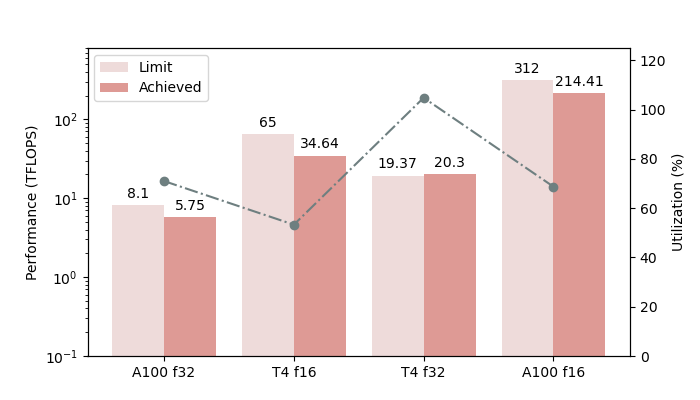
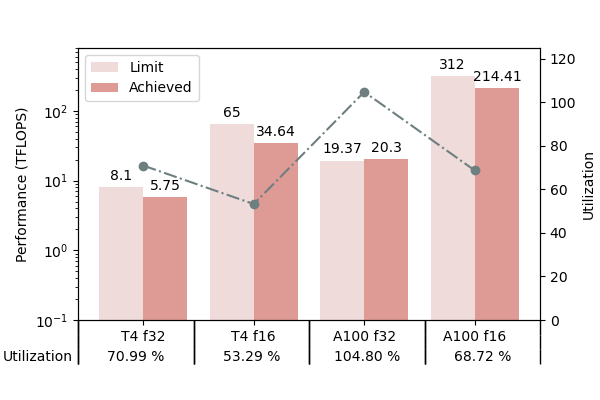
Modify CHEP Fig2 script to add a table below

diff --git a/CHEP_2023/fc/fig2_max_tflops_dual_y.py b/CHEP_2023/fc/fig2_max_tflops_dual_y.py
@@ -9,7 +9,7 @@ COLOR_LIMIT = "#EEDBDA"
 COLOR_ACHIEVED = "#DE9A95"
 COLOR_LINE = "#6E7F80"
 
-x_entries = {'T4 f32', 'T4 f16', 'A100 f32', 'A100 f16'}
+x_entries = ['T4 f32', 'T4 f16', 'A100 f32', 'A100 f16']
 max_flops = {
     'Limit': [8.10, 65, 19.37, 312],
     'Achieved': [5.75, 34.64, 20.30, 214.41],
@@ -20,7 +20,7 @@ x = list(range(len_x))
 
 #############################################################
 # Ax1: bar chart
-fig, ax1 = plt.subplots(figsize=(7, 4))
+fig, ax1 = plt.subplots(figsize=(6, 4))
 
 width = 0.4  # the width of the bars
 idx = 0
@@ -39,17 +39,34 @@ for legend, flops in max_flops.items():
 ax1.set_ylabel('Performance (TFLOPS)')
 ax1.set_yscale('log')
 ax1.set_ylim(0.1, 800)
-ax1.set_xticks(x_center, x_entries)
+ax1.set_xticks(x_center, x_entries)  # overlap with table
 ax1.legend(loc='upper left')
 
 #############################################################
 # Ax2: line
-utilization = [max_flops['Achieved'][i] / max_flops['Limit'][i] * 100 for i in range(len_x)]
-print(utilization)
+utilizations = [max_flops['Achieved'][i] / max_flops['Limit'][i] * 100 for i in range(len_x)]
+print("Utilizations")
+print(utilizations)
 ax2 = ax1.twinx()
-ax2.plot(x_center, utilization, 'o-.', color=COLOR_LINE)
-ax2.set_ylabel('Utilization (%)')
+ax2.plot(x_center, utilizations, 'o-.', color=COLOR_LINE)
+ax2.set_ylabel('Utilization')
 
 ax2.set_ylim(0, 125)
 
+############################################################
+# table
+# two blank rows to increase vspace
+cell_text = [['' for i in range(len_x)], ['' for i in range(len_x)], ['%4.2f %%' %u for u in utilizations]]
+
+plt.table(cellText=cell_text,
+		      rowLabels=['', '', 'Utilization'], cellLoc='center',
+                      loc='bottom', edges='vertical')
+# Adjust layout to make room for the table
+plt.subplots_adjust(left=0.13, bottom=0.2)
+
 plt.savefig('fig2_max_performance.png')
+
+##########################################
+print("f32 speedup %6.1f"%(max_flops['Achieved'][2]/max_flops['Achieved'][0]))
+print("f16 speedup %6.1f"%(max_flops['Achieved'][3]/max_flops['Achieved'][1]))
+
